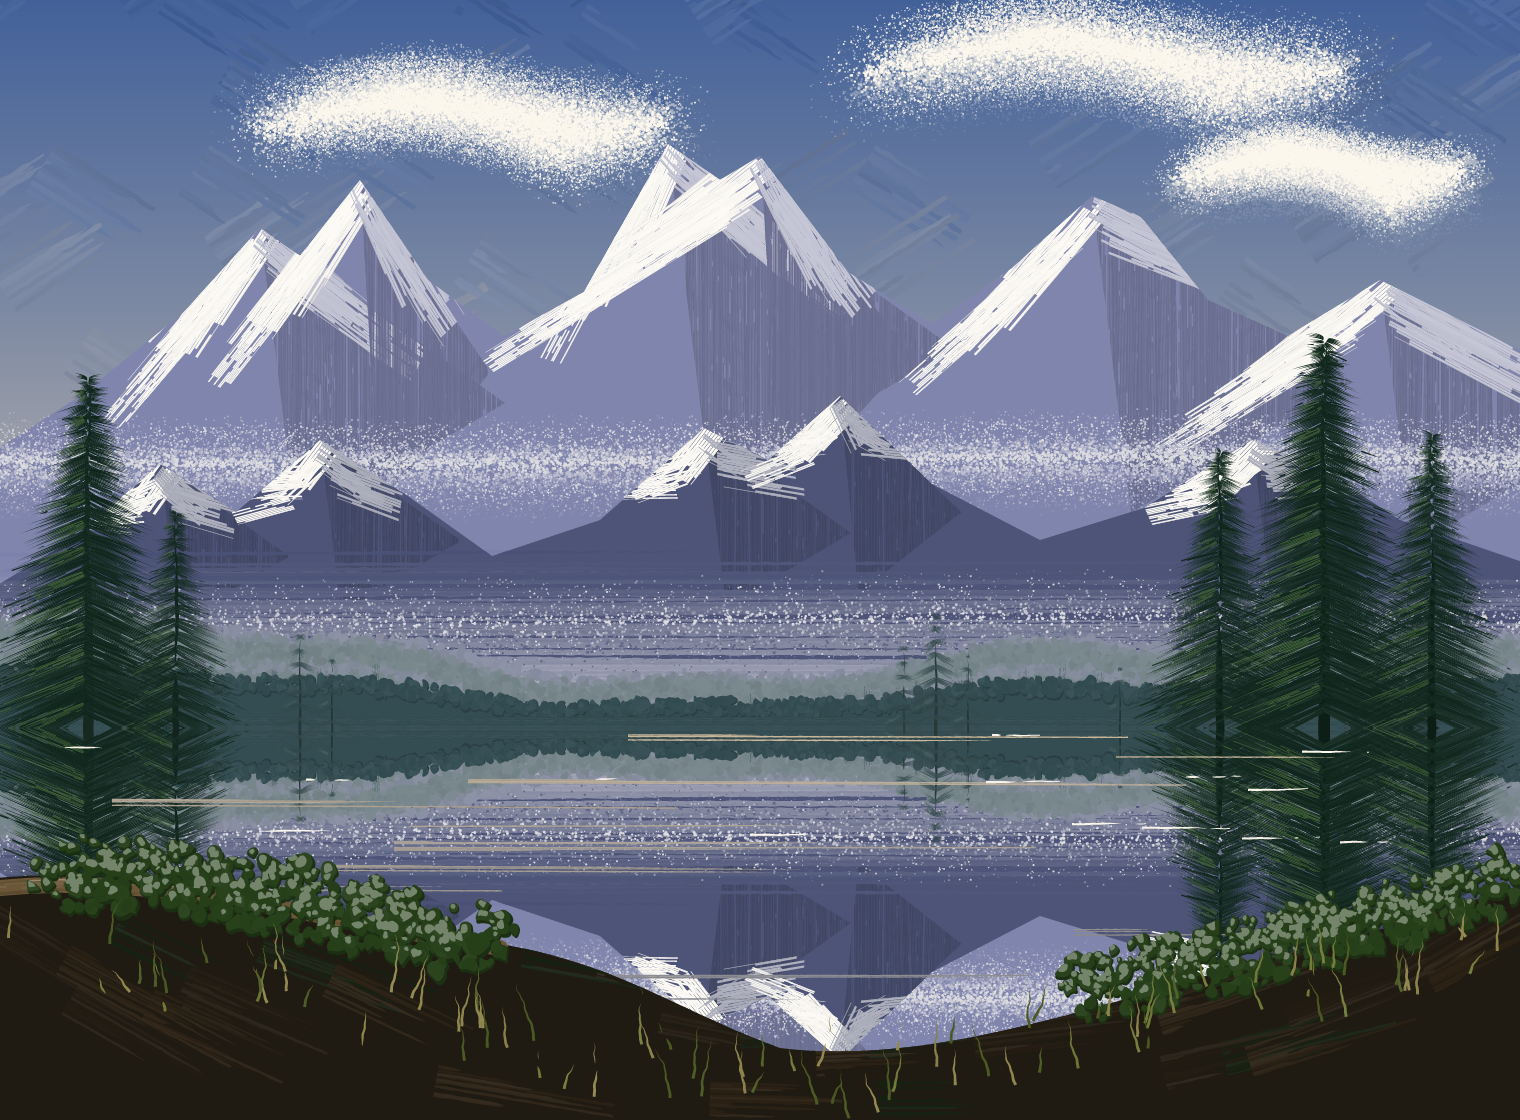
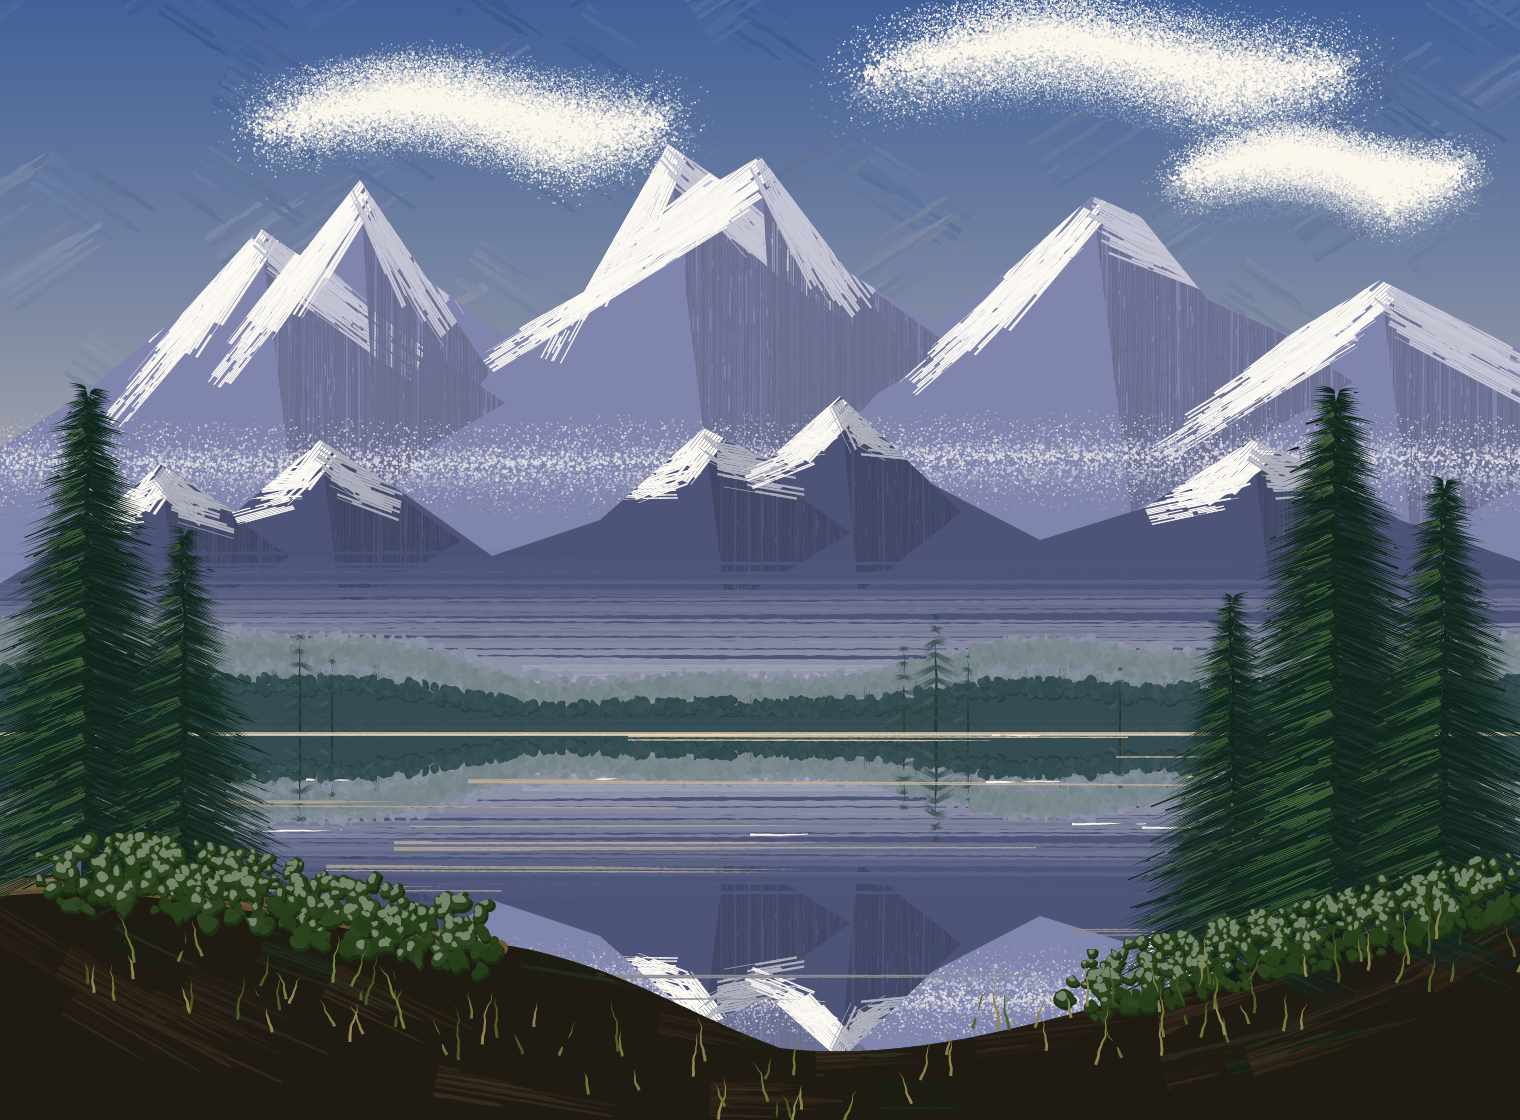
gallery: Alpine Lake — stand the framing pines on the near banks (#118)
They stood on the far waterline, reading as far-shore giants and
meeting their own reflection as a chevron. Painted after the lake now,
unreflected; adds the far shore's light line and thins the mist.

Claude-Session: https://claude.ai/code/session_019QzsxrfithqxQCWsMwM6qz

diff --git a/NOTES.md b/NOTES.md
@@ -30,6 +30,15 @@ Decisions:
   mixed from the range colour toward mist, with `/Charge` dropping as
   it rises. It dissolves the bottoms of the knife work instead of
   covering them with a flat band.
+- **The near evergreens stand on the foreground banks and are not
+  reflected.** They are painted after the lake. In the first version
+  their bases sat on the far waterline, which made them read as giant
+  far-shore trees and left a chevron where each met its own mirror
+  image. Checking real wet-on-wet landscapes (an image search) showed
+  framing trees standing on the near banks. The same check showed a
+  thin light line where the far shore meets its reflection, which the
+  piece now has, and mist as a soft veil, which is why the speckle mist
+  was thinned and its second band dropped.
 - **The far forest is a filled mass with a `pkdab`-tapped crest.**
   Upright `pkfan` strokes at that scale read as pale stripes and
   doubled the render time.
